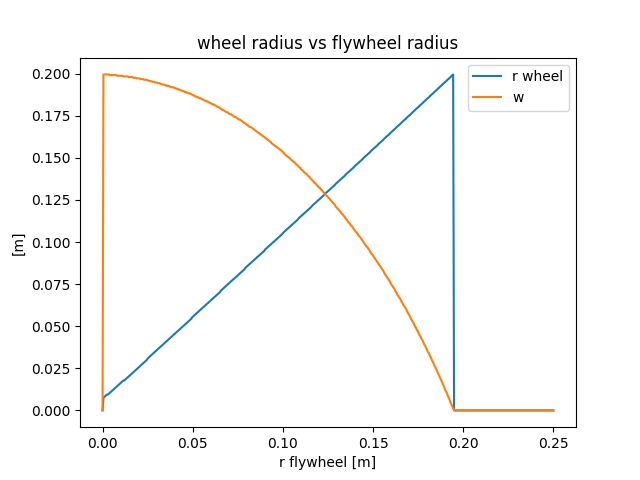
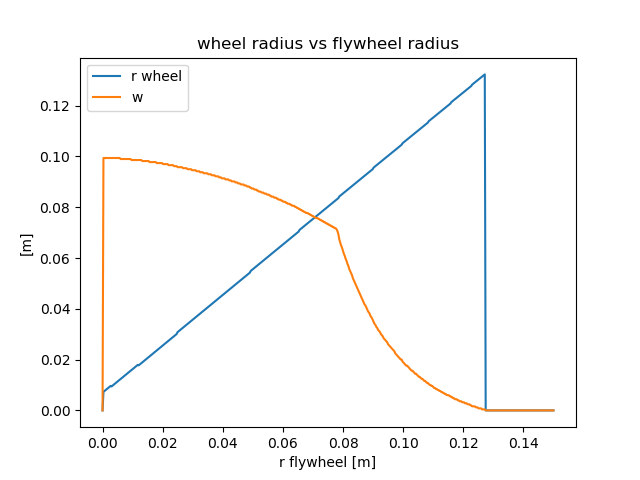
saturated simulations

diff --git a/documentation/thesis/tex/mechanical_study.tex b/documentation/thesis/tex/mechanical_study.tex
@@ -288,9 +288,9 @@ We are going to distinguish the same two cases as in the previous section:
     \[\boxed{\Rightarrow h_{max}= \dot{y}_0* (\dot{\theta}_{max}- \dot{\theta}_0) * \frac{I_{flywheel}(r_{max})}{m_{total} * g * r_{wheel}}}\]
 
     \item Pendulum: $\dot{\theta} = 0$, and $r$ is fixed to $r = r_{min}$
-    \[sin(\alpha) = min(1,\frac{m_{cylinder} * g * (r_{max} - r_{min}) * \sin{\theta}}{m_{total} * g * r_{wheel}}) \]
+    \[sin(\alpha) = min(1,\frac{min(\tau_{motor-flywheel},m_{cylinder} * g * (r_{max} - r_{min}) * \sin{\theta})}{m_{total} * g * r_{wheel}}) \]
     \begin{equation}\label{Maximum angle using pendulum system}
-        sin(\alpha_{max}) = \frac{m_{cylinder} * (r_{max}- r_{min})}{m_{total} * r_{wheel}}
+        sin(\alpha_{max}) = min(1,\frac{min(\tau_{motor-flywheel},m_{cylinder} * g * (r_{max} - r_{min}))}{m_{total} * g * r_{wheel}})
     \end{equation}
 \end{enumerate}
 

diff --git a/software/mechanical_computations/robot.py b/software/mechanical_computations/robot.py
@@ -17,12 +17,12 @@ class Robot:
   w = 0
   valid_configuration=True
   
-  m_battery = .2#.15
+  m_battery = .210#.15
   m_motor = .175
   m_wheel = .15
-  m_rest = 4 * m_battery + 3 * m_motor + 2 * m_wheel
+  m_rest = 2 * m_battery + 3 * m_motor + 2 * m_wheel
 
-  L_rest = 0.30
+  L_rest = 0.4
   r_external=0.5/2.0
   g = 9.81
   rho_flywheel=7850
@@ -107,7 +107,7 @@ class Robot:
   def max_sin_pendulum(self):
     if(not self.valid_configuration):
       return 0
-    return self.m_cylinder() * (self.r_flywheel/3)/(self.r_wheel *  self.m_total())
+    return min(1,min(self.m_cylinder() * self.g * (self.r_flywheel/3) ,self.motor_max_torque)/(self.r_wheel *  self.m_total()*self.g))
 
   def max_sin_flywheel(self):
     if(not self.valid_configuration):

diff --git a/software/mechanical_computations/optimization.py b/software/mechanical_computations/optimization.py
@@ -15,7 +15,7 @@ my_robot = Robot()
 resolution = 500
 
 
-r_flywheel_array=numpy.linspace(0.00,my_robot.r_external,resolution)
+r_flywheel_array=numpy.linspace(0.00,0.15,resolution)
 cost_array = []
 max_sin_pendulum_array = []
 max_sin_flywheel_array = []
@@ -27,6 +27,8 @@ speed_horizontal_flywheel_array = []
 speed_horizontal_pendulum_array = []
 
 def cost_function(robot: Robot):
+  if(max(robot.max_sin_pendulum(),robot.max_sin_flywheel())< 0.3):
+    return 0
   return robot.max_sin_pendulum()
   return (robot.max_sin_flywheel()+robot.max_sin_pendulum()) *20* robot.motor_max_speed*robot.r_wheel*math.pi*2 + (robot.max_speed_horizontal_flywheel()+ robot.max_speed_horizontal_pendulum())
 
